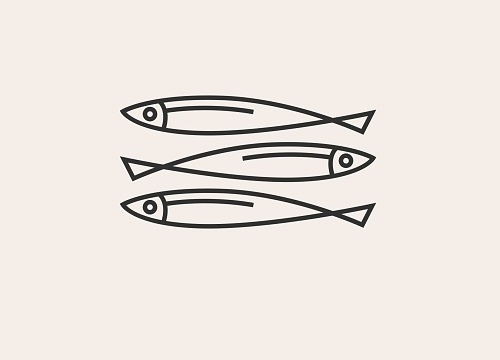
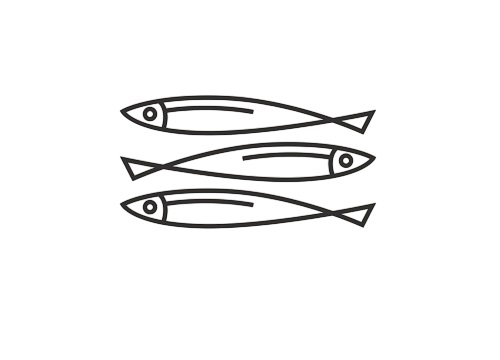
IngredientImages + BoutonDeconnexion
Rajout et/ou modification des images pour qu'elles ait la même taille.
Le bouton de déconnexion ramène toujours vers la page de landing

diff --git a/frontend/src/app/services/auth.service.ts b/frontend/src/app/services/auth.service.ts
@@ -2,6 +2,7 @@ import { Injectable } from '@angular/core';
 import { HttpClient, HttpParams } from '@angular/common/http';
 import { BehaviorSubject, Observable, tap } from 'rxjs';
 import { User } from  '../shared/models/user.model';
+import { Router } from '@angular/router';
 
 @Injectable({
   providedIn: 'root'
@@ -11,7 +12,7 @@ export class AuthService {
   private _currentUser = new BehaviorSubject<User | null>(null);
   currentUser$ = this._currentUser.asObservable();
 
-  constructor(private http: HttpClient) {
+  constructor(private http: HttpClient, private router: Router) {
     if (typeof window !== 'undefined' && window.localStorage) {
       const saved = localStorage.getItem('currentUser');
       if (saved) {
@@ -58,10 +59,7 @@ export class AuthService {
       localStorage.removeItem('currentUser');
     }
     this._currentUser.next(null);
-
-    if (typeof window !== 'undefined' && window.location) {
-      window.location.reload();
-    }
+    this.router.navigate(['/landing']);
   }
 
   get isLoggedIn(): boolean {
